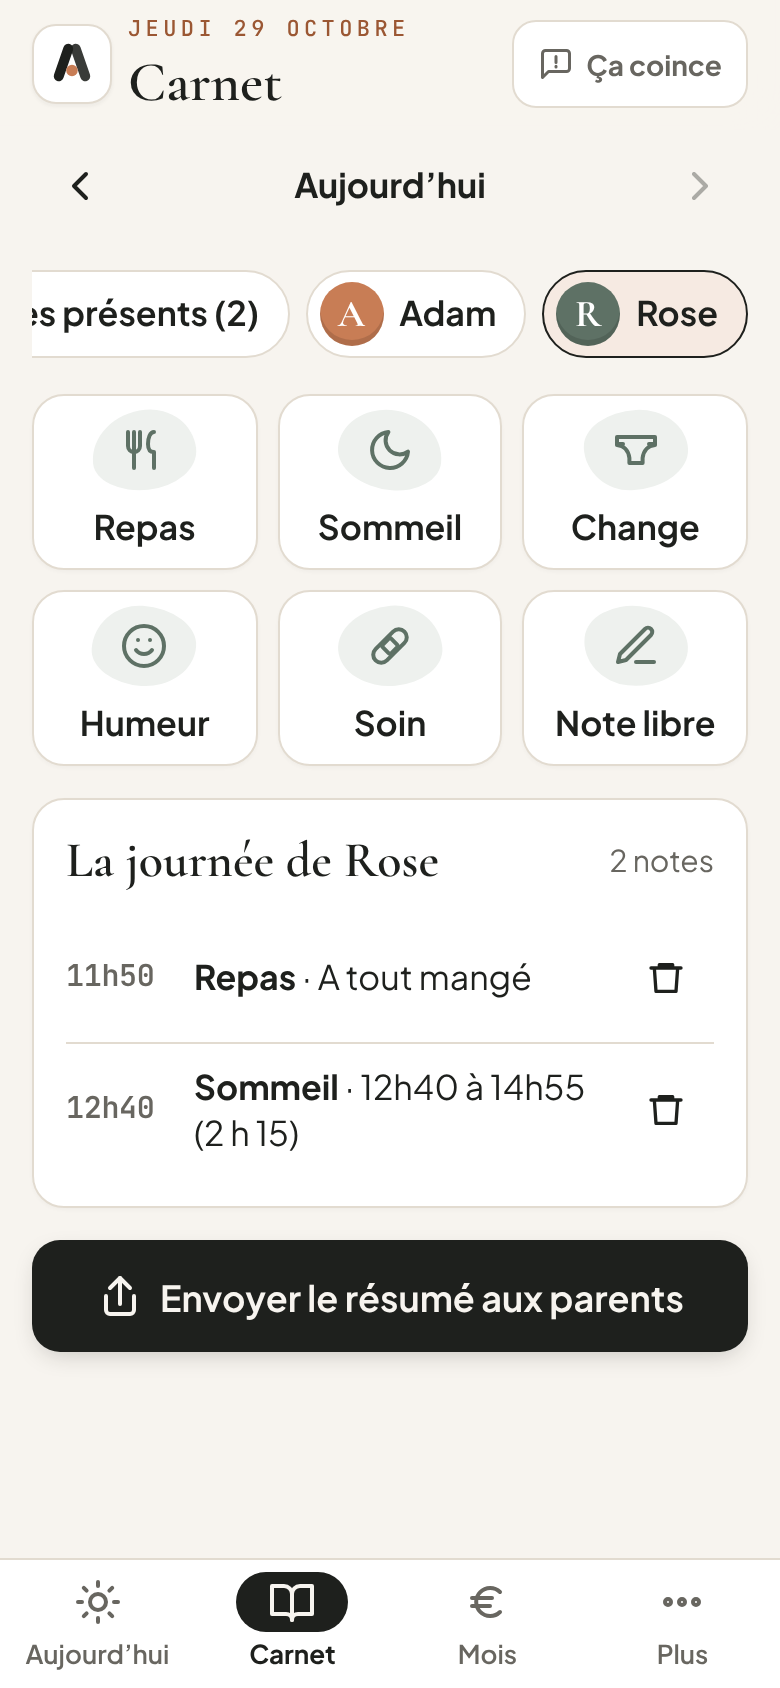
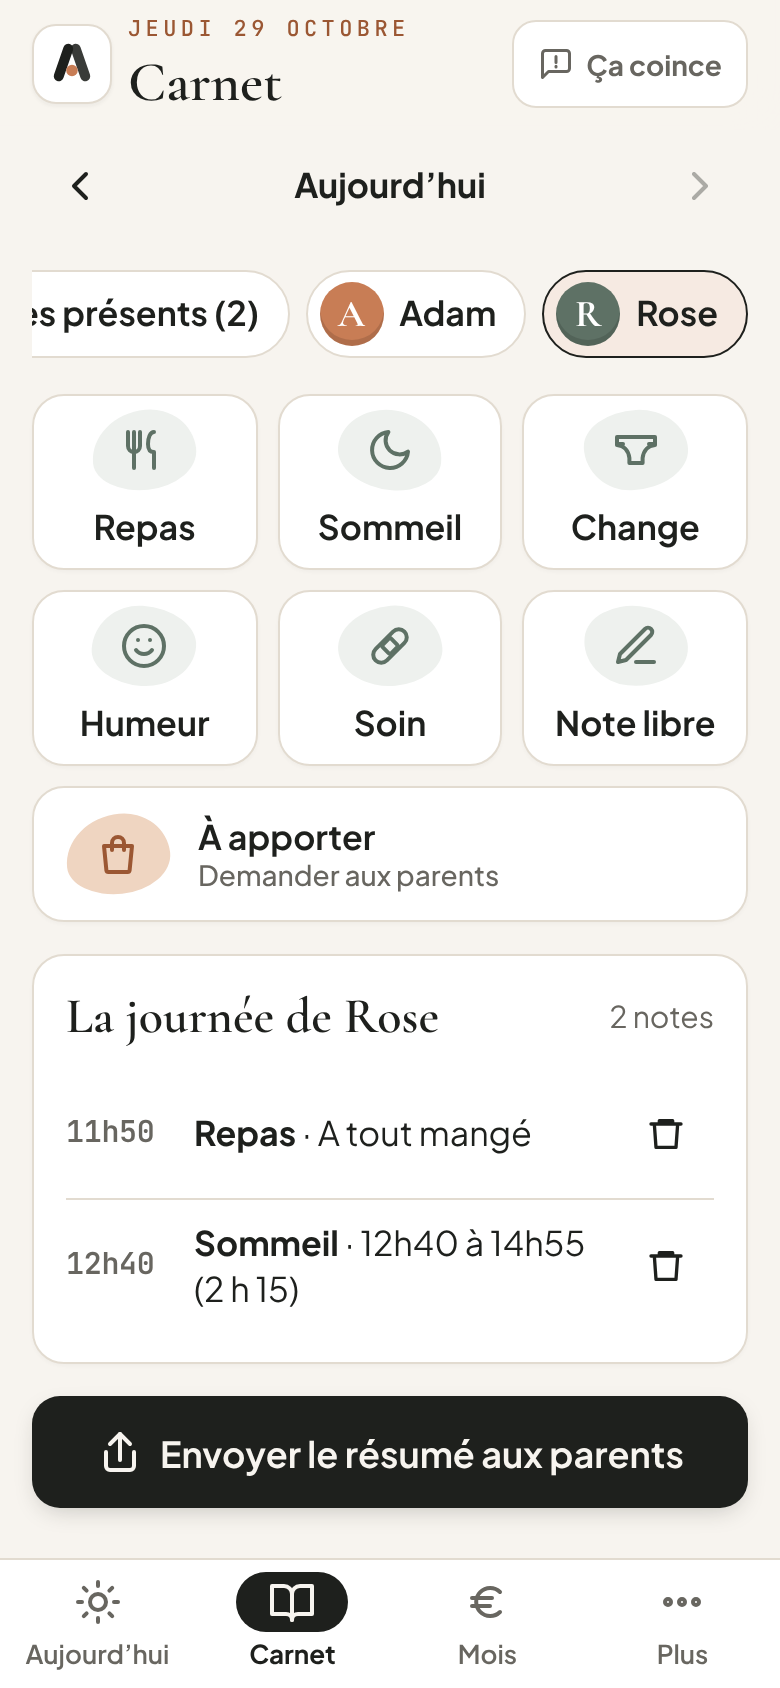
Vidéos : écrans du carnet à jour, et « À apporter » dans les vidéos du carnet et des parents (en cours : voix à récupérer)
Claude-Session: https://claude.ai/code/session_01JgPEsGjhDVwwouWGZ9Vhap

diff --git a/motion/src/Aides.tsx b/motion/src/Aides.tsx
@@ -89,6 +89,8 @@ export const AideCarnet: React.FC = () => {
   const tapRose = c('choisis') + 0.55, tapRepas = c('noter') - 0.25, tapTout = c('heure') - 0.45;
   const tapSommeil = c('sommeil') - 0.2, tapEndort = c('sommeil') + 0.45, tapReveil = c('reveil2') + 0.05;
   const midi = tapSommeil - 0.35, apresMidi = tapReveil - 0.45;
+  // Il manque des couches ? La tuile « À apporter », « Couches », et la demande arrive chez les parents
+  const quinze = c('manque') - 0.35, tapApporter = c('apporter') - 0.15, tapCouches = c('apporter') + 0.6;
   const ecran = (
     <>
       <Cross a="demo/c-adam" b="demo/c-rose-0" p={fade(t, tapRose + 0.06, tapRose + 0.3, Easing.linear)} />
@@ -97,8 +99,13 @@ export const AideCarnet: React.FC = () => {
       <Shot src="demo/c-rose-2" o={fade(t, tapEndort + 0.15, tapEndort + 0.4, Easing.linear)} />
       <Shot src="demo/c-rose-2b" o={fade(t, apresMidi, apresMidi + 0.2, Easing.linear)} />
       <Shot src="demo/c-rose-3" o={fade(t, tapReveil + 0.1, tapReveil + 0.35, Easing.linear)} />
+      <Shot src="demo/c-rose-3b" o={fade(t, quinze, quinze + 0.2, Easing.linear)} />
+      <Shot src="demo/c-rose-4" o={fade(t, tapCouches + 0.15, tapCouches + 0.4, Easing.linear)} />
       <Sheet src="demo/c-repas" top={D.cRepasFeuille.top} t={t} up={tapRepas + 0.05} down={tapTout + 0.1} />
       <Sheet src="demo/c-sommeil" top={D.cSommeilFeuille.top} t={t} up={tapSommeil + 0.05} down={tapEndort + 0.1} />
+      <Sheet src="demo/c-apporter" top={D.cApporterFeuille.top} t={t} up={tapApporter + 0.05} down={tapCouches + 0.1} />
+      <Halo t={t} from={c('manque') - 0.1} to={tapApporter} r={D.cApporter} />
+      <Halo t={t} from={tapCouches + 0.35} to={DUREE_CARNET} r={D.cLigneApporter} pad={4} />
       <Halo t={t} from={c('heure') - 0.1} to={midi} r={D.cHeure1} pad={6} />
       <Halo t={t} from={c('reveil') - 0.1} to={tapReveil} r={D.cDodo} />
       <Tap t={t} at={tapRose} r={D.cRose} />
@@ -107,9 +114,13 @@ export const AideCarnet: React.FC = () => {
       <Tap t={t} at={tapSommeil} r={D.cSommeil} />
       <Tap t={t} at={tapEndort} r={D.cEndort} />
       <Tap t={t} at={tapReveil} r={D.cReveil2} />
+      <Tap t={t} at={tapApporter} r={D.cApporter} />
+      <Tap t={t} at={tapCouches} r={D.cCouches} />
     </>
   );
-  return <Cadre v={VC} t={t} fin={DUREE_CARNET} ecran={ecran} heure={[{ at: 0.2, h: '11 h 50' }, { at: midi, h: '12 h 40' }, { at: apresMidi, h: '14 h 55' }]} italique={['toute seule', 'Réveil']} sons={taps([tapRose, tapRepas, tapTout, tapSommeil, tapEndort, tapReveil])} />;
+  // « Ses parents le voient aussitôt » : la carte telle qu'elle arrive en haut de leur page
+  const dessus = <Bulle t={t} from={c('parents') - 0.25} to={DUREE_CARNET + 1} titre="Page des parents" texte={'À apporter : couches\nDemandé aujourd’hui à 15h00'} x={110} y={930} w={860} size={36} />;
+  return <Cadre v={VC} t={t} fin={DUREE_CARNET} ecran={ecran} dessus={dessus} heure={[{ at: 0.2, h: '11 h 50' }, { at: midi, h: '12 h 40' }, { at: apresMidi, h: '14 h 55' }, { at: quinze, h: '15 h 00' }]} italique={['toute seule', 'Réveil', 'À apporter']} sons={<>{taps([tapRose, tapRepas, tapTout, tapSommeil, tapEndort, tapReveil, tapApporter, tapCouches])}<Sfx at={c('parents') - 0.2} name="envoye" volume={0.35} /></>} />;
 };
 
 // ---------- Mois : tout est calculé, case par case, puis envoyé au parent ----------

diff --git a/motion/src/Parents.tsx b/motion/src/Parents.tsx
@@ -41,11 +41,12 @@ export const Parents: React.FC = () => {
   const fin = DUREE_PARENTS;
   const sigAt = SIG_AT;
 
-  const pensez = c('pensez'), ouvrez = c('ouvrez'), dort = c('dort'), mange = c('mange'), prive = c('prive'), code = c('code'), finMois = c('fin'), cases = c('cases'), recopier = c('recopier');
+  const pensez = c('pensez'), ouvrez = c('ouvrez'), dort = c('dort'), mange = c('mange'), couches = c('couches'), prive = c('prive'), code = c('code'), finMois = c('fin'), cases = c('cases'), recopier = c('recopier');
   const allume = ouvrez - 0.2; // le téléphone sort de veille
   const tapCode = ouvrez + 0.35;
   const page = dort - 0.55; // la page de la journée s'ouvre
   const tapMois = finMois + 0.15;
+  const demande = couches - 0.55; // la demande de Sonia arrive en direct : la carte « À apporter » en haut
   const tapCopier = recopier - 0.25;
 
   const S = 1.5, top = 520;
@@ -57,6 +58,7 @@ export const Parents: React.FC = () => {
     const veille = 1 - fade(t, allume, allume + 0.35);
     const code1 = fade(t, tapCode + 0.35, tapCode + 0.5, Easing.linear);
     const pg = fade(t, page, page + 0.4, Easing.linear);
+    const pa = fade(t, demande, demande + 0.35, Easing.linear);
     const mois = fade(t, tapMois + 0.1, tapMois + 0.4, Easing.linear);
     const copie = fade(t, tapCopier + 0.1, tapCopier + 0.25, Easing.linear);
     const zoneDecl: Rect = { left: J.pDecl.left, top: J.pDecl.top, w: J.pDecl.w, h: SH - 70 - J.pDecl.top, x: J.pDecl.x, y: 0 };
@@ -66,11 +68,13 @@ export const Parents: React.FC = () => {
         <Shot src="journee/p-code-1" o={code1} />
         <Tap t={t} at={tapCode} r={J.pCode} />
         <Shot src="journee/p-2" o={pg} />
+        <Shot src="journee/p-2-apporter" o={pa} />
         {pg > 0 && (
           <>
             <Halo t={t} from={dort - 0.1} to={mange - 0.3} r={J.p2ligne} couleur={C.sauge} />
-            <Halo t={t} from={mange - 0.2} to={prive - 0.3} r={J.p1ligne} couleur={C.sauge} />
-            <Halo t={t} from={prive - 0.1} to={finMois} r={J.p2prive} couleur={C.sauge} />
+            <Halo t={t} from={mange - 0.2} to={demande} r={J.p1ligne} couleur={C.sauge} />
+            <Halo t={t} from={couches - 0.1} to={prive - 0.3} r={J.p3apporter} couleur={C.sauge} />
+            <Halo t={t} from={prive - 0.1} to={finMois} r={J.p3prive} couleur={C.sauge} />
           </>
         )}
         <Shot src="journee/p-mois" o={mois} />
@@ -134,6 +138,7 @@ export const Parents: React.FC = () => {
       <Musique fichier="musique/patterns-in-the-grain.mp3" depart={2} fin={fin} pistes={PISTES} niveau={0.16} fps={fps} />
       {[tapCode, tapMois, tapCopier].map((x) => <Sfx key={x} at={x} name="tap" volume={0.5} />)}
       <Sfx at={allume} name="pop" volume={0.3} />
+      <Sfx at={demande} name="pop" volume={0.25} />
       <Sfx at={sigAt + 0.2} name="chime" volume={0.35} />
     </Frame>
   );

diff --git a/src/styles.css b/src/styles.css
@@ -740,9 +740,10 @@ h1.h-card { font-size: 25px; }
 .apporter { display: flex; gap: 14px; align-items: flex-start; border-color: color-mix(in srgb, var(--accent) 45%, var(--line)); background: var(--accent-soft); }
 .apporter > svg { flex: none; color: var(--accent-ink); margin-top: 2px; }
 .apporter h2 { margin: 0 0 4px; }
-.apporter ul { margin: 0; padding: 0; list-style: none; display: flex; flex-direction: column; gap: 4px; }
+.apporter ul { margin: 0; padding: 0; list-style: none; display: flex; flex-direction: column; gap: 8px; }
 .apporter li b { font-weight: 650; }
-.apporter li span { color: var(--ink-2); font-size: 15px; }
+.apporter li b { display: block; }
+.apporter li span { display: block; color: var(--ink-2); font-size: 15px; }
 .cp { display: flex; align-items: center; justify-content: space-between; gap: 10px; padding: 10px 0; border-bottom: 1px dashed var(--line); }
 .cp:last-of-type { border-bottom: 0; }
 .cp-l { display: flex; flex-direction: column; }

diff --git a/src/screens/Parent.tsx b/src/screens/Parent.tsx
@@ -240,7 +240,7 @@ function Jour({ snap, jour }: { snap: ParentSnapshot; jour: string }) {
             <h2 id="app-t" class="ph-h2 sm">À apporter</h2>
             <ul>
               {demandes.map((e) => (
-                <li><b>{cap(choseApporter(e))}</b> <span>· demandé {e.date === jour ? `aujourd’hui\u00a0à\u00a0${h(e.time)}` : dayLabel(e.date).split(' ')[0]}</span></li>
+                <li><b>{cap(choseApporter(e))}</b><span>Demandé {e.date === jour ? `aujourd’hui à ${h(e.time)}` : dayLabel(e.date).split(' ')[0]}</span></li>
               ))}
             </ul>
           </div>
